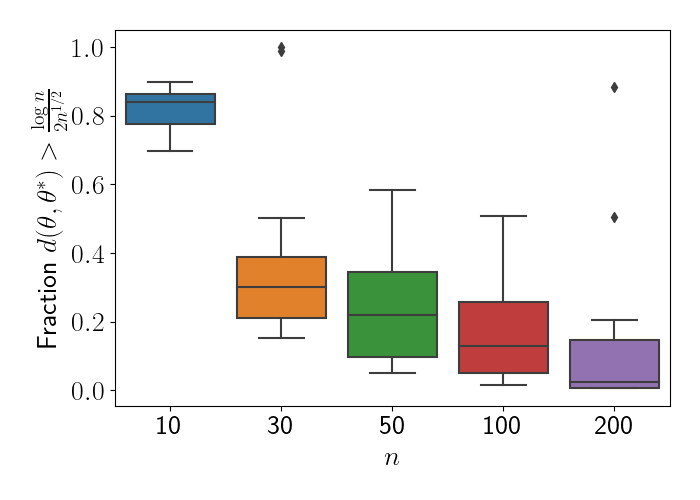
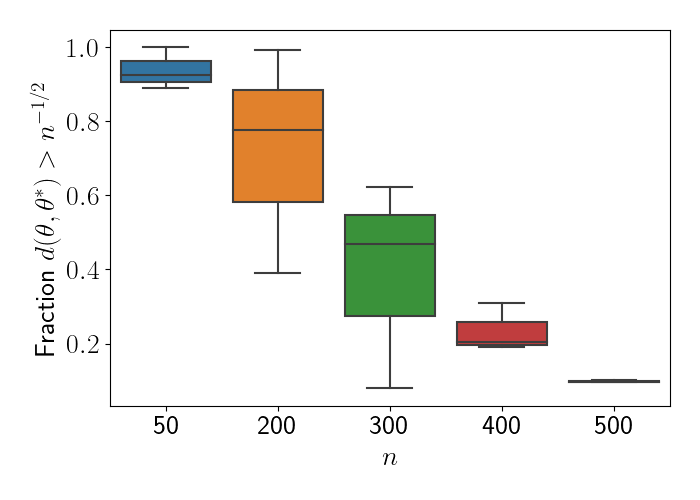
fixed gamma bound function

diff --git a/experiments/simulation/gibbs_posterior/rate_validation1.py b/experiments/simulation/gibbs_posterior/rate_validation1.py
@@ -1,0 +1,189 @@
+import matplotlib
+from scipy.stats import multivariate_normal
+import matplotlib.pyplot as plt
+import matplotlib.patches as mpatches
+from pcpca import PCPCA
+import numpy as np
+import pystan
+from hashlib import md5
+from os.path import join as pjoin
+import pickle
+import os
+import pandas as pd
+import seaborn as sns
+from scipy.linalg import sqrtm
+
+font = {"size": 20}
+matplotlib.rc("font", **font)
+matplotlib.rcParams["text.usetex"] = True
+
+
+# ns = (np.array([20, 40, 60, 100]) / 2.0).astype(int)
+ns = (np.array([50, 200, 300, 400, 500]) / 2.0).astype(int)
+# ns = (np.array([160, 200, 240, 280]) / 2.0).astype(int)
+gamma = 0.1
+w = 1.0
+beta = 0.5
+
+
+max_n = np.max(ns)
+max_m = max_n
+n_mcmc_iter = 20000
+n_posterior_samples = 1000
+
+num_reps = 3
+frac_exceeding_list = np.empty((num_reps, len(ns)))
+frac_exceeding_list[:] = np.nan
+divs_list = []
+
+p = 2
+k = 1
+
+cov_bg = np.array([[1, 0.7], [0.7, 1]])
+cov_fg = np.array([[1, -0.7], [-0.7, 1]])
+
+Y_full = multivariate_normal.rvs(np.zeros(p), cov_bg, size=max_m)# + np.random.normal(scale=.01, size=(max_m, p))
+X_full = multivariate_normal.rvs(np.zeros(p), cov_fg, size=max_n)# + np.random.normal(scale=.01, size=(max_n, p))
+
+# cov = np.array([[3.7, 2.6], [3.6, 2.7]])
+# cov_bg = cov
+
+# Y_full = multivariate_normal.rvs([0, 0], cov, size=max_m)
+
+# mua = np.array([-1, 1])
+# mub = np.array([1, -1])
+# cov_fg = 0.5 * np.outer(mua, mua) + 0.5 * np.outer(mub, mub) + cov
+# Xa_full = multivariate_normal.rvs(mua, cov, size=max_n // 2)
+# Xb_full = multivariate_normal.rvs(mub, cov, size=max_n // 2)
+# X_full = np.concatenate([Xa_full, Xb_full], axis=0)
+
+# plt.scatter(X_full[:, 0], X_full[:, 1], label="FG")
+# plt.scatter(Y_full[:, 0], Y_full[:, 1], label="BG")
+# plt.legend()
+# plt.show()
+
+
+for rep in range(num_reps):
+
+    for n_idx, n in enumerate(ns):
+
+        # Get subset of data
+        m = n
+        # Xa = Xa_full[: n // 2, :]
+        # Xb = Xb_full[: n // 2, :]
+        # X = np.concatenate([Xa, Xb], axis=0)
+        X = X_full[np.random.choice(np.arange(max_n), n, replace=False), :]
+        Y = Y_full[np.random.choice(np.arange(max_m), m, replace=False), :]
+
+        assert X.shape[0] == n
+        assert Y.shape[0] == m
+
+        def compute_risk(W, sigma2):
+            # import ipdb; ipdb.set_trace()
+            A = W @ W.T + sigma2 * np.eye(p)
+            A_inv = np.linalg.inv(A)
+            risk = 0.5 * (beta - gamma * (1 - beta)) * np.linalg.slogdet(A)[
+                1
+            ] + 0.5 * np.trace(A_inv @ C)
+            return risk
+
+        def compute_divergence(W, sigma2):
+            risk = compute_risk(W, sigma2)
+            div = np.sqrt(risk - risk_star)
+            return div
+
+        ## Compute risk minimizer
+        C = beta * cov_fg - (1 - beta) * gamma * cov_bg
+        eigvals, eigvecs = np.linalg.eigh(C)
+        sorted_idx = np.argsort(-eigvals)
+        eigvals, eigvecs = eigvals[sorted_idx], eigvecs[:, sorted_idx]
+        sigma2_star = 1 / (beta - (1 - beta) * gamma) * np.mean(eigvals[1:])
+        W_star = eigvecs[:, :k] @ sqrtm(
+            1 / (beta - (1 - beta) * gamma) * np.diag(eigvals[:k]) - sigma2_star * np.eye(k)
+        )
+
+        print("BEST W: ", W_star)
+        # import ipdb; ipdb.set_trace()
+        
+
+        risk_star = compute_risk(W_star, sigma2_star)
+
+        pcpca_data = {"n": n, "m": m, "p": p, "k": k, "X": X, "Y": Y, "gamma": gamma, "w": w}
+
+        ## Load model
+        with open("pcpca_gibbs.stan", "r") as file:
+            model_code = file.read()
+        code_hash = md5(model_code.encode("ascii")).hexdigest()
+        cache_fn = pjoin("cached_models", "cached-model-{}.pkl".format(code_hash))
+
+        if os.path.isfile(cache_fn):
+            print("Loading cached model...")
+            sm = pickle.load(open(cache_fn, "rb"))
+        else:
+            print("Saving model to cache...")
+            sm = pystan.StanModel(model_code=model_code)
+            with open(cache_fn, "wb") as f:
+                pickle.dump(sm, f)
+
+        # Fit model
+        n_iter = n_mcmc_iter
+
+        # Fit and check if chains mixed
+        rhat_failed = True
+        while rhat_failed:
+            fit = sm.sampling(
+                data=pcpca_data, iter=n_iter, warmup=n_iter - n_posterior_samples, chains=1 #, init=[{'W': np.array([[1.6], [-1.6]]), 'sigma2': 1}]
+            )
+            rhat_vals = fit.summary()["summary"][:, -1]
+            rhat_failed = np.sum(rhat_vals < 0.9) or np.sum(rhat_vals > 1.1)
+            # if rhat_failed:
+            #     print(rhat_vals)
+            #     import ipdb; ipdb.set_trace()
+
+        # Get samples
+        W_list = fit.extract()["W"]
+        sigma2_list = np.squeeze(fit.extract()["sigma2"])
+        # Compute divergences
+        div_list = np.zeros(len(sigma2_list))
+        for ii in range(len(sigma2_list)):
+            div = compute_divergence(W_list[ii, :], sigma2_list[ii])
+            div_list[ii] = div
+
+        divs_list.append(div_list)
+
+
+        risk_list = np.zeros(len(sigma2_list))
+        for ii in range(len(sigma2_list)):
+            risk = compute_risk(W_list[ii, :], sigma2_list[ii])
+            # should be worse than the risk minimizer
+            assert risk >= risk_star
+            risk_list[ii] = risk
+
+        epsilon = 2 * ((n + m)**(-0.5))
+
+        num_exceeding = np.sum(div_list > epsilon)
+        frac_exceeding = 1.0 * num_exceeding / len(div_list)
+        frac_exceeding_list[rep, n_idx] = frac_exceeding
+
+
+
+
+# sns.boxplot(data=pd.melt(pd.DataFrame(np.array(divs_list).T, columns=ns*2)), x="variable", y="value")
+# plt.show()
+
+results_df = pd.DataFrame(frac_exceeding_list, columns=ns * 2)
+results_df = pd.melt(results_df)
+
+plt.figure(figsize=(7, 5))
+sns.boxplot(data=results_df, x="variable", y="value")
+plt.xlabel(r"$n$")
+# plt.ylabel(r'Fraction $d(\theta, \theta^*) > n^{-1/2}$')
+plt.ylabel(r"Fraction $d(\theta, \theta^*) > n^{-1/2}$")
+plt.tight_layout()
+plt.savefig("../../../plots/simulated/gibbs_rate.png")
+plt.show()
+
+import ipdb
+
+ipdb.set_trace()
+

diff --git a/experiments/simulation/gibbs_posterior/rate_validation.py b/experiments/simulation/gibbs_posterior/rate_validation.py
@@ -55,36 +55,46 @@ def abline(slope, intercept):
 
 
 beta = 0.5
-gamma = 0.3
+gamma = 0.85
+p = 2
 k = 1
-ns = (np.array([10, 30, 50, 100, 200]) / 2.0).astype(int)
-num_reps = 20
+ns = (np.array([200, 500]) / 2.0).astype(int)
+num_reps = 4
 frac_exceeding_list = np.empty((num_reps, len(ns)))
 frac_exceeding_list[:] = np.nan
 divs_list = []
 
+max_n = np.max(ns)
+max_m = max_n
+n_mcmc_iter = 20000
+n_posterior_samples = 1000
+n_posterior_samples_plot = 100
+
+cov = np.array([[2.7, 2.6], [2.6, 2.7]])
+cov_fg = cov
+cov_bg = cov
+
+Y_full = multivariate_normal.rvs([0, 0], cov, size=max_m)
+
+Xa_full = multivariate_normal.rvs([-1.4, 1.4], cov, size=max_n // 2)
+Xb_full = multivariate_normal.rvs([1.4, -1.4], cov, size=max_n // 2)
+X_full = np.concatenate([Xa_full, Xb_full], axis=0)
+
 for rep in range(num_reps):
 
     for n_idx, n in enumerate(ns):
-
-        # Generate data
+        
+        # Get subset of data
         m = n
-        p = 2
+        Xa = Xa_full[: n // 2, :]
+        Xb = Xb_full[: n // 2, :]
+        X = np.concatenate([Xa, Xb], axis=0)
+        Y = Y_full[:m, :]
 
-        # cov = [
-        #     [2.7, 2.6],
-        #     [2.6, 2.7]
-        # ]
-        # Y = multivariate_normal.rvs([0, 0], cov, size=m)
-
-        # Xa = multivariate_normal.rvs([-2, 2], cov, size=n//2)
-        # Xb = multivariate_normal.rvs([2, -2], cov, size=n//2)
-        # X = np.concatenate([Xa, Xb], axis=0)
-
-        cov_bg = np.array([[2.7, 2.6], [2.6, 2.7]])
-        Y = multivariate_normal.rvs(np.zeros(2), cov_bg, size=m)
-        cov_fg = np.array([[2.7, 0.6], [0.6, 2.7]])
-        X = multivariate_normal.rvs(np.zeros(2), cov_fg, size=n)
+        # cov_bg = np.array([[2.7, 2.6], [2.6, 2.7]])
+        # Y = multivariate_normal.rvs(np.zeros(2), cov_bg, size=m)
+        # cov_fg = np.array([[2.7, 0.1], [0.1, 2.7]])
+        # X = multivariate_normal.rvs(np.zeros(2), cov_fg, size=n)
 
         # plt.scatter(Y[:, 0], Y[:, 1], alpha=0.5, label="Background", s=50, color="gray")
         # plt.scatter(X[:, 0], X[:, 1], alpha=0.5, label="Background", s=50, color="red")
@@ -104,6 +114,7 @@ for rep in range(num_reps):
             return div
 
         ## Compute risk minimizer
+        # import ipdb; ipdb.set_trace()
         C = beta * cov_fg - (1 - beta) * gamma * cov_bg
         eigvals, eigvecs = np.linalg.eigh(C)
         sorted_idx = np.argsort(-eigvals)
@@ -130,12 +141,17 @@ for rep in range(num_reps):
             with open(cache_fn, "wb") as f:
                 pickle.dump(sm, f)
 
-        # Fit model
-        fit = sm.sampling(data=pcpca_data, iter=3000, warmup=2900, chains=4)
+        
 
-        rhat_vals = fit.summary()["summary"][:, -1]
-        if np.sum(rhat_vals < 0.9) or np.sum(rhat_vals > 1.1):
-            continue
+        
+        repeat_flag = True
+        while repeat_flag:
+            # Fit model
+            fit = sm.sampling(data=pcpca_data, iter=4000, warmup=3500, chains=4, refresh=0)
+            rhat_vals = fit.summary()["summary"][:, -1]
+            repeat_flag = (np.sum(rhat_vals < 0.9) > 0) or (np.sum(rhat_vals > 1.1) > 0)
+            print("IS REPEATING: {}".format(repeat_flag))
+            # import ipdb; ipdb.set_trace()
 
         # Get samples
         W_list = np.squeeze(fit.extract()["W"])
@@ -157,8 +173,8 @@ for rep in range(num_reps):
             risk_list[ii] = risk
 
         # epsilon = np.log(n + m) / ((n + m)**(0.5))
-        epsilon = np.log(n + m) / (2 * (n + m) ** (0.5))
-        # epsilon = ((n + m)**(-0.5))
+        # epsilon = np.log(n + m) / (2 * (n + m) ** (0.5))
+        epsilon = ((n + m)**(-0.5))
 
         num_exceeding = np.sum(div_list > epsilon)
         frac_exceeding = 1.0 * num_exceeding / len(div_list)

diff --git a/tests/test_gamma_bound.py b/tests/test_gamma_bound.py
@@ -1,0 +1,30 @@
+from pcpca import PCPCA
+import numpy as np
+from os.path import join as pjoin
+import pandas as pd
+from scipy.stats import multivariate_normal as mvn
+
+def test_gamma_bound_toy():
+	data_dir = "./data/toy"
+	X = pd.read_csv(pjoin(data_dir, "foreground.csv"), header=None)
+	Y = pd.read_csv(pjoin(data_dir, "background.csv"), header=None)
+	pcpca = PCPCA(n_components=1)
+	gamma_bound = pcpca.get_gamma_bound(X, Y)
+	assert gamma_bound > 0
+	assert ~isinstance(gamma_bound, complex)
+
+def test_gamma_bound_random():
+	n_repeats = 10
+	for _ in range(n_repeats):
+		n = 100
+		p = 10
+		X = np.random.normal(size=(n, p))
+		Y = np.random.normal(size=(n, p))
+		pcpca = PCPCA(n_components=4)
+		gamma_bound = pcpca.get_gamma_bound(X, Y)
+		assert gamma_bound > 0
+		assert ~isinstance(gamma_bound, complex)
+
+if __name__ == "__main__":
+	test_gamma_bound_random()
+	

diff --git a/pcpca/pcpca.py b/pcpca/pcpca.py
@@ -63,9 +63,8 @@ class PCPCA:
         p = X.shape[0]
         Cx = self._compute_sample_covariance(X)
         Cy = self._compute_sample_covariance(Y)
-        Cx_eigvals = -np.sort(-np.linalg.eigvals(Cx))
-        Cy_eigvals = -np.sort(-np.linalg.eigvals(Cy))
-
+        Cx_eigvals = -np.sort(-np.linalg.eigh(Cx)[0])
+        Cy_eigvals = -np.sort(-np.linalg.eigh(Cy)[0])
         gamma_bound = np.sum(Cx_eigvals[self.k - 1 :]) / ((p - self.k) * Cy_eigvals[0])
         return gamma_bound
 

diff --git a/experiments/simulation/pcpca_vary_gamma.py b/experiments/simulation/pcpca_vary_gamma.py
@@ -70,6 +70,7 @@ for ii, gamma in enumerate(gamma_range):
     abline(slope=pcpca.W_mle[1, 0] / pcpca.W_mle[0, 0], intercept=0)
 
     print(pcpca.W_mle)
+import ipdb; ipdb.set_trace()
 plt.tight_layout()
 plt.savefig("../../plots/simulated/pcpca_vary_gamma.png")
 plt.show()
